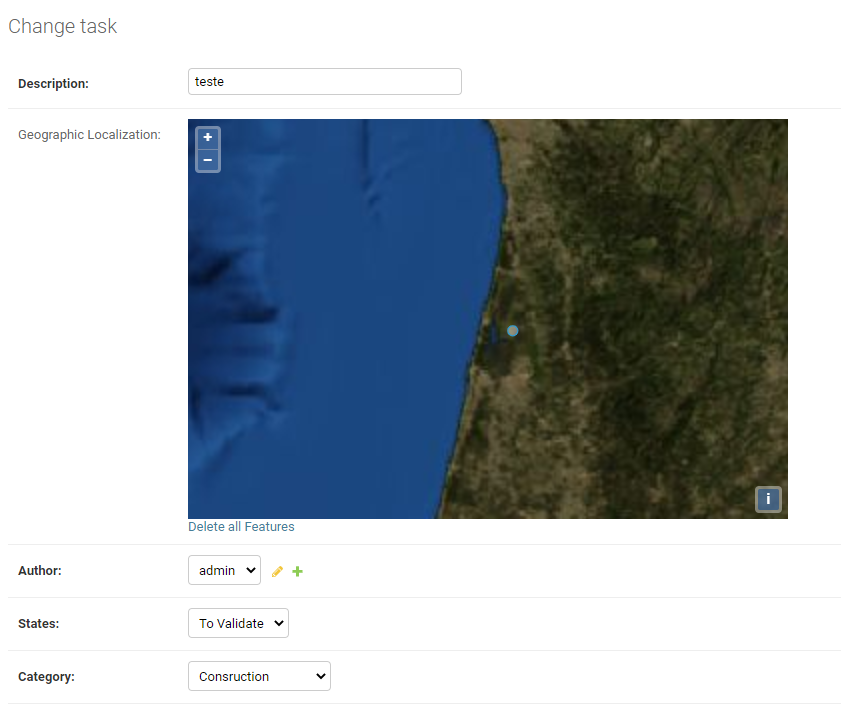
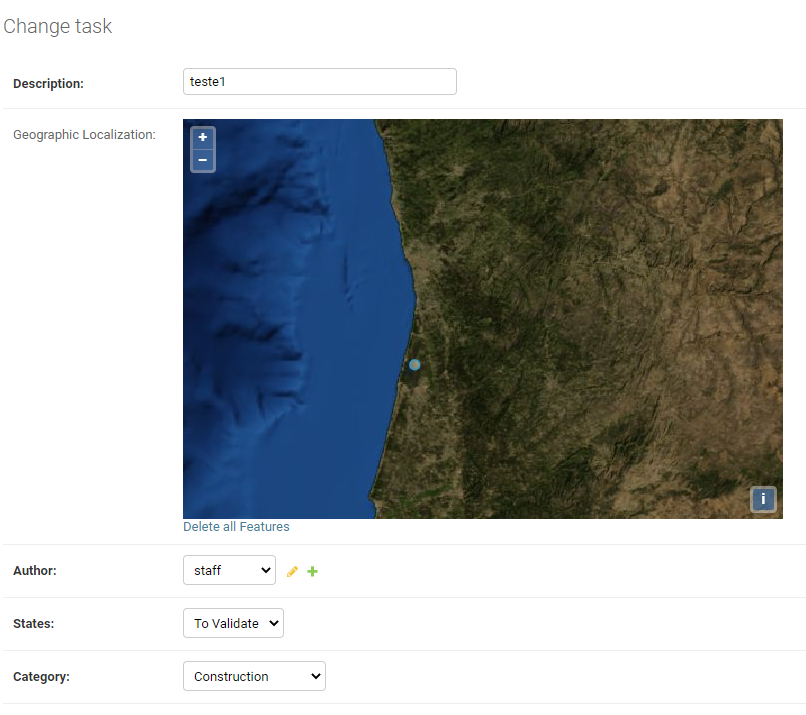
png

diff --git a/taskmanager/migrations/0002_auto_20200729_1346.py b/taskmanager/migrations/0002_auto_20200729_1346.py
@@ -1,0 +1,18 @@
+# Generated by Django 3.0.8 on 2020-07-29 12:46
+
+from django.db import migrations, models
+
+
+class Migration(migrations.Migration):
+
+    dependencies = [
+        ('taskmanager', '0001_initial'),
+    ]
+
+    operations = [
+        migrations.AlterField(
+            model_name='task',
+            name='category',
+            field=models.CharField(choices=[('CN', 'Construction'), ('SE', 'Special Event'), ('IC', 'Incident'), ('WC', 'Weather Condition'), ('RC', 'Road Condition')], default='CN', max_length=2, verbose_name='Category'),
+        ),
+    ]

diff --git a/taskmanager/models.py b/taskmanager/models.py
@@ -15,7 +15,7 @@ class Migration(migrations.Migration):
 class Task(models.Model):
 
     class Categories(models.TextChoices):
-        CONSTRUCTION        = 'CN', 'Consruction'
+        CONSTRUCTION        = 'CN', 'Construction'
         SPECIAL_EVENT       = 'SE', 'Special Event'
         INCIDENT            = 'IC', 'Incident'
         WEATHER_CONDITION   = 'WC', 'Weather Condition'
